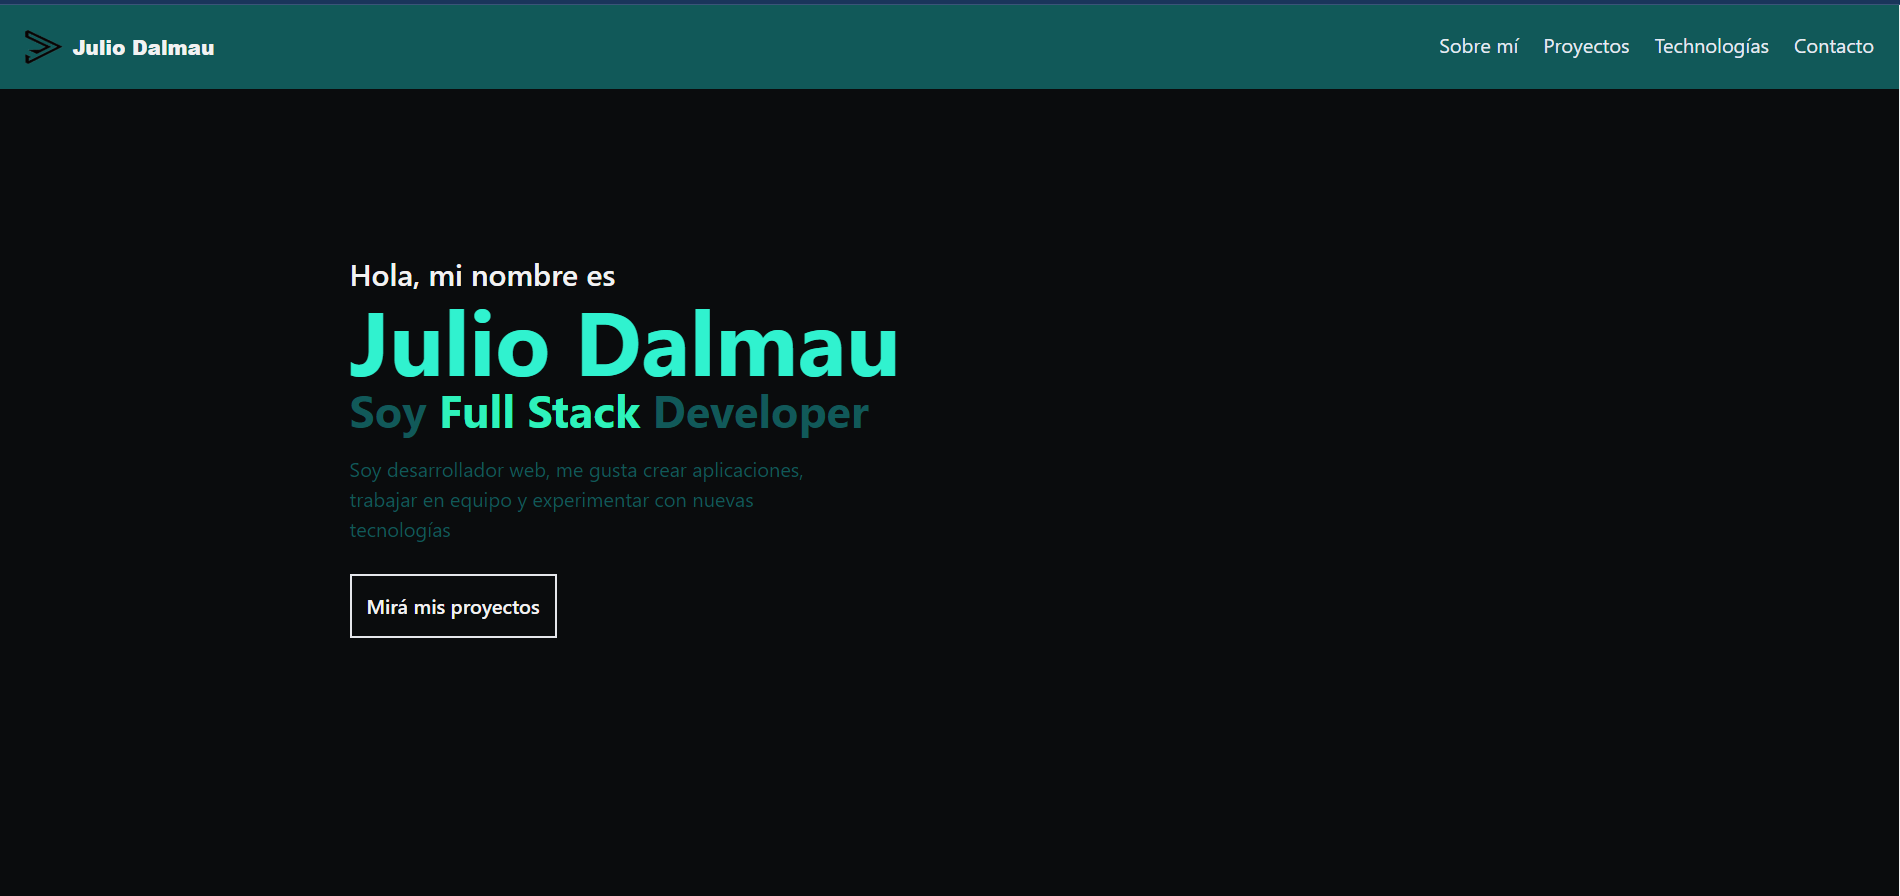
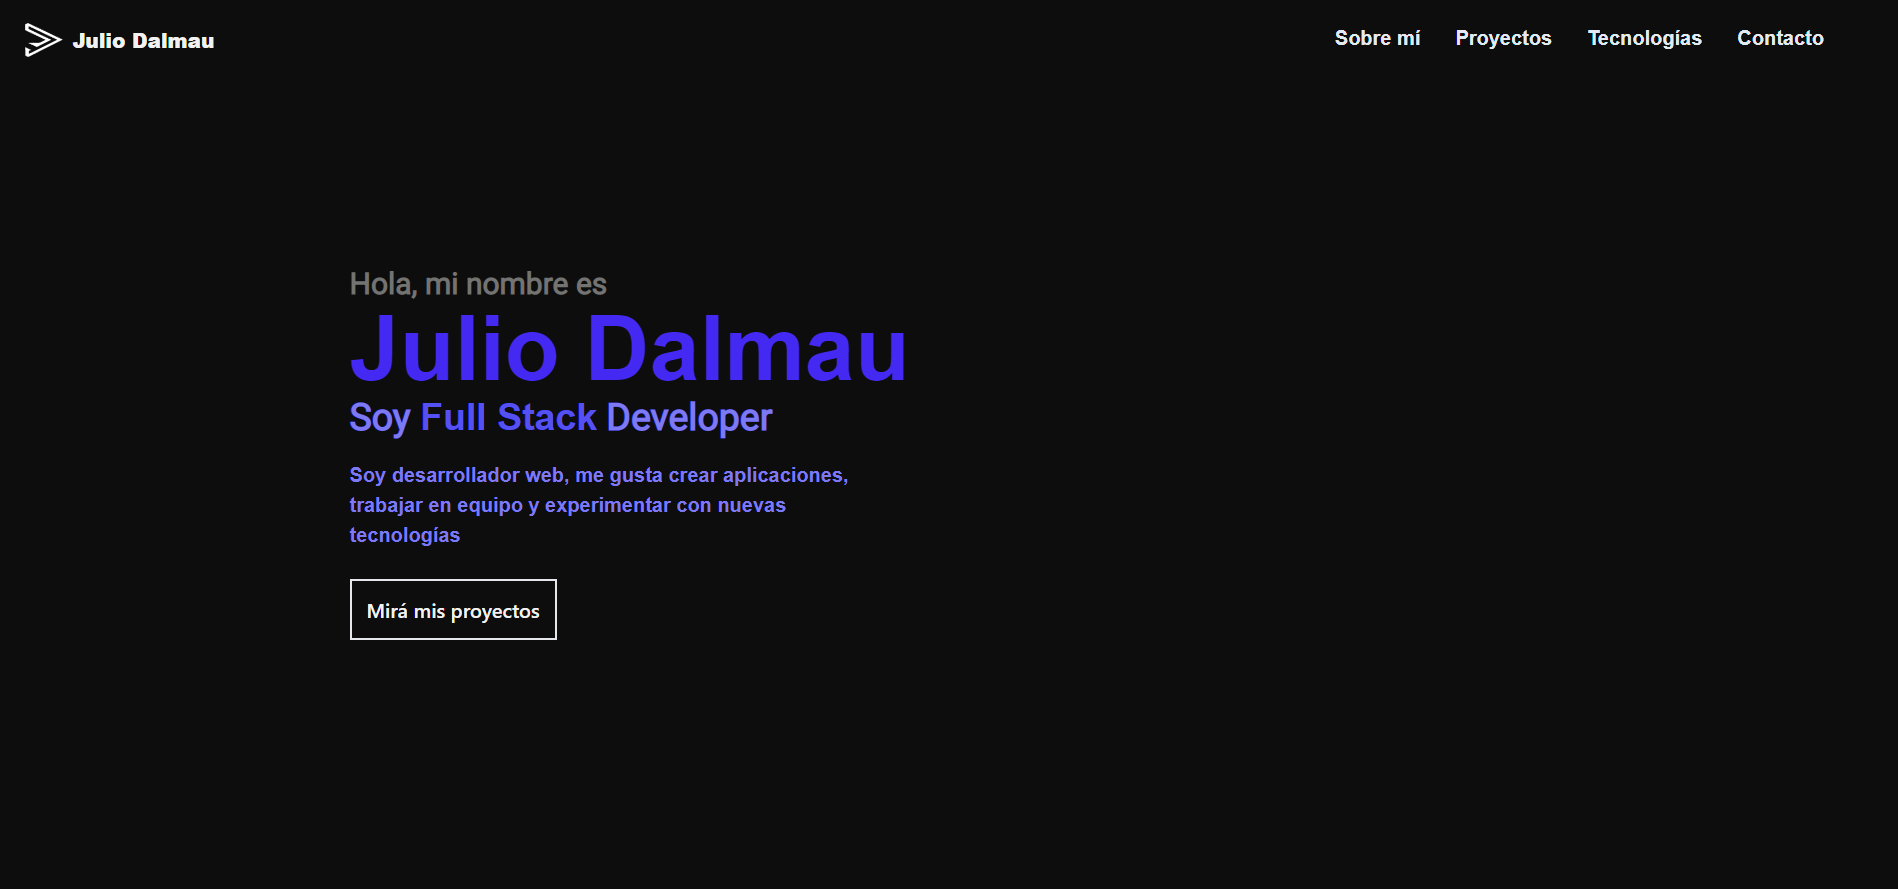
final commit

diff --git a/src/components/Skills.jsx b/src/components/Skills.jsx
@@ -10,47 +10,47 @@ const Skills = () => {
             Skills
           </p>
         </div>
-
-        <div className="w-full grid grid-cols-2 sm:grid-cols-4 gap-5 text-center py-8 ">
-          <div className="shadow-md shadow-[#7D79F2] hover:scale-110 duration-500 mx-auto px-4 ">
+        
+        <div className="w-full grid grid-cols-2 sm:grid-cols-4 gap-5 text-center py-8">
+          <div className="shadow-md shadow-[#7D79F2] hover:scale-110 duration-500 mx-auto px-4 bg-[#262626]">
             <img width={100} src="https://cdn.jsdelivr.net/gh/devicons/devicon/icons/react/react-original.svg" alt='react' />
             <p className="my-4">REACT</p>
           </div>
-          <div className="shadow-md shadow-[#7D79F2] hover:scale-110 duration-500 mx-auto px-4">
+          <div className="shadow-md shadow-[#7D79F2] hover:scale-110 duration-500 mx-auto px-4 bg-[#262626]">
           <img width={100} src="https://cdn.jsdelivr.net/gh/devicons/devicon/icons/redux/redux-original.svg" alt="redux"/>
             <p className="my-4">REDUX</p>
           </div>
-          <div className="shadow-md shadow-[#7D79F2] hover:scale-110 duration-500 mx-auto px-4 ">
+          <div className="shadow-md shadow-[#7D79F2] hover:scale-110 duration-500 mx-auto px-4 bg-[#262626]">
           <img width={100} src="https://cdn.jsdelivr.net/gh/devicons/devicon/icons/nodejs/nodejs-original.svg" alt="nodejs"/>
           
             <p className="my-4">NODE JS</p>
           </div>
-          <div className="shadow-md shadow-[#7D79F2] hover:scale-110 duration-500 mx-auto px-4 ">
+          <div className="shadow-md shadow-[#7D79F2] hover:scale-110 duration-500 mx-auto px-4 bg-[#262626]">
             <img width={100} src="https://cdn.jsdelivr.net/gh/devicons/devicon/icons/express/express-original.svg" alt="expressjs"/>
             <p className="my-4">EXPRESS JS</p>
           </div>
-          <div className="shadow-md shadow-[#7D79F2] hover:scale-110 duration-500 mx-auto px-4 ">
+          <div className="shadow-md shadow-[#7D79F2] hover:scale-110 duration-500 mx-auto px-4 bg-[#262626]">
             <img width={100} src="https://cdn.jsdelivr.net/gh/devicons/devicon/icons/postgresql/postgresql-original.svg" alt="postgresql"/>
             <p className="my-4">POSTGRESQL</p>
           </div>
-          <div className="shadow-md shadow-[#7D79F2] hover:scale-110 duration-500 mx-auto px-4 ">
+          <div className="shadow-md shadow-[#7D79F2] hover:scale-110 duration-500 mx-auto px-4 bg-[#262626]">
           <img width={100} src="https://cdn.jsdelivr.net/gh/devicons/devicon/icons/mongodb/mongodb-original.svg"  alt="mongodb"/>
             <p className="my-4">MONGODB</p>
           </div>
-          <div className="shadow-md shadow-[#7D79F2] hover:scale-110 duration-500 mx-auto px-4 ">
+          <div className="shadow-md shadow-[#7D79F2] hover:scale-110 duration-500 mx-auto px-4 bg-[#262626]">
           <img width={100} src="https://cdn.jsdelivr.net/gh/devicons/devicon/icons/firebase/firebase-plain.svg" alt="firebase"/>
             <p className="my-4">FIREBASE</p>
           </div>
-          <div className="shadow-md shadow-[#7D79F2] hover:scale-110 duration-500 mx-auto px-4 ">
+          <div className="shadow-md shadow-[#7D79F2] hover:scale-110 duration-500 mx-auto px-4 bg-[#262626]">
             <img width={100} src="https://cdn.jsdelivr.net/gh/devicons/devicon/icons/tailwindcss/tailwindcss-plain.svg" alt="tailwindcss"/>
             <p className="my-4">TAILWIND CSS</p>
           </div>
-          <div className="shadow-md shadow-[#7D79F2] hover:scale-110 duration-500 mx-auto px-4 ">
+          <div className="shadow-md shadow-[#7D79F2] hover:scale-110 duration-500 mx-auto px-4 bg-[#262626]">
           <img width={100} src="https://cdn.jsdelivr.net/gh/devicons/devicon/icons/git/git-original.svg" alt="git"/>
             <p className="my-4">GIT</p>
           </div>
-          <div className="shadow-md shadow-[#7D79F2] hover:scale-110 duration-500 mx-auto px-4 ">
-          <img width={100} src="https://cdn.jsdelivr.net/gh/devicons/devicon/icons/github/github-original.svg" alt="github" />
+          <div className="shadow-md shadow-[#7D79F2] hover:scale-110 duration-500 mx-auto px-4 bg-[#262626]">
+          <img className="devicon-devicon-plain path" width={100} src="https://cdn.jsdelivr.net/gh/devicons/devicon/icons/github/github-original.svg" alt="github" />
             <p className="my-4">GITHUB</p>
           </div>
         </div>

diff --git a/src/components/About.jsx b/src/components/About.jsx
@@ -16,17 +16,16 @@ const About = () => {
           <div></div>
         </div>
         <div className="max-w-[1000px] w-full grid md:grid-cols-2 gap-8 px-4">
-          {/* <div className="md:justify-end md:items-end mx-auto"> */}
           <div className="md:justify-start md:ml-0 mx-auto">
             <img
-              className="w-[300px] "
+              className="w-[300px] shadow-md shadow-[#7D79F2]"
               src={profilePicture}
               alt="foto perfil"
             />
           </div>
-          <div className="text-[#7D79F2]">
-            <p className="px-4 font-roboto">{data.es.aboutMe[0]}</p>
-            <p className="px-4 font-roboto">{data.es.aboutMe[1]}</p>
+          <div className="text-[#7D79F2] text-lg">
+            <p className="px-4 font-semibold font-roboto">{data.es.aboutMe[0]}</p>
+            <p className="px-4 font-semibold font-roboto">{data.es.aboutMe[1]}</p>
             <div className="justify-self-center text-center pt-4">
                 <a href={julioDalmau} type="application/pdf" target="_blank" rel="noreferrer" >
               <button className="text-[#F2F2F2] font-semibold py-3 px-3 border-2 my-2 hover:bg-[#4429F2] hover:border-[#4429F2] hover:text-[#0A0C0D] hover:font-semibold font-montserrat">

diff --git a/src/components/Projects.jsx b/src/components/Projects.jsx
@@ -9,7 +9,7 @@ const Projects = () => {
   return (
     <div name="projects" className="w-full md:h-screen text-[#F2F2F2] bg-[#0D0D0D] max-sm:pb-28 max-sm:pt-28">
       <div className="max-w-[1000px] mx-auto px-4 flex flex-col justify-center w-full h-full">
-        <div className="pb-8">
+        <div className="pb-9 my-5">
           <p className="text-4xl font-bold inline border-b-4 text-[#F2F2F2] border-[#5550F2] font-montserrat">{data.es.Projects.title}</p>  
         </div>
 
@@ -20,7 +20,7 @@ const Projects = () => {
                 {projects.map((project, index) => (
           <div key={index} 
           style={{backgroundImage: `url(${project.path})`}}
-          className="shadow-lg shadow-[#040c16] group container rounded-md flex justify-center items-center text-center mx-auto content-works font-montserrat">
+          className="shadow-md shadow-[#7D79F2] group container rounded-md flex justify-center items-center text-center  mx-auto content-works font-montserrat">
 
             {/* hover */}
             <div className="opacity-0 group-hover:opacity-100">

diff --git a/src/components/Home.jsx b/src/components/Home.jsx
@@ -13,12 +13,12 @@ const Home = () => {
         <h1 className="text-4xl sm:text-7xl font-bold text-[#4429F2] font-montserrat">
           {data.es.init[1]}
         </h1>
-        <h2 className="text-4xl sm:7xl font-bold text-[#7D79F2] font-roboto">
+        <h2 className="text-[28px] md:text-3xl font-bold text-[#7D79F2] font-roboto">
           {data.es.init[2]}
           <Typed
             strings={data.es.init[3]}
             typeSpeed={150}
-            backSpeed={60}
+            backSpeed={50}
             loop
             showCursor={false}
             className="text-[#5550F2] font-montserrat font-bold"

diff --git a/src/App.js b/src/App.js
@@ -5,10 +5,17 @@ import Projects from "./components/Projects";
 import Skills from "./components/Skills";
 import Contact from "./components/Contact";
 import Footer from "./components/Footer";
+import ProgressBar from 'react-progressbar-on-scroll'
 
 function App() {
   return (
     <>
+    <ProgressBar
+    color="#7D79F2"
+    height={2}
+    gradient={true}
+    gradientColor="#4429F2"
+    />
       <Navbar />
       <Home />
       <About />

diff --git a/src/index.css b/src/index.css
@@ -4,6 +4,7 @@
 
 
 
+
   @layer base{
     li{
       @apply cursor-pointer;
@@ -14,7 +15,7 @@
     background-repeat: no-repeat;
     background-size: cover;
     background-position: center;
-    height: 250px;
+    height: 220px;
   }
 
   .content-works:hover {
@@ -23,5 +24,9 @@
         rgba(48, 242, 207, 1),
         rgba(17, 89, 89, 1)   
     )!important;
+}
+
+::-webkit-scrollbar {
+  display: none;
 }
 
